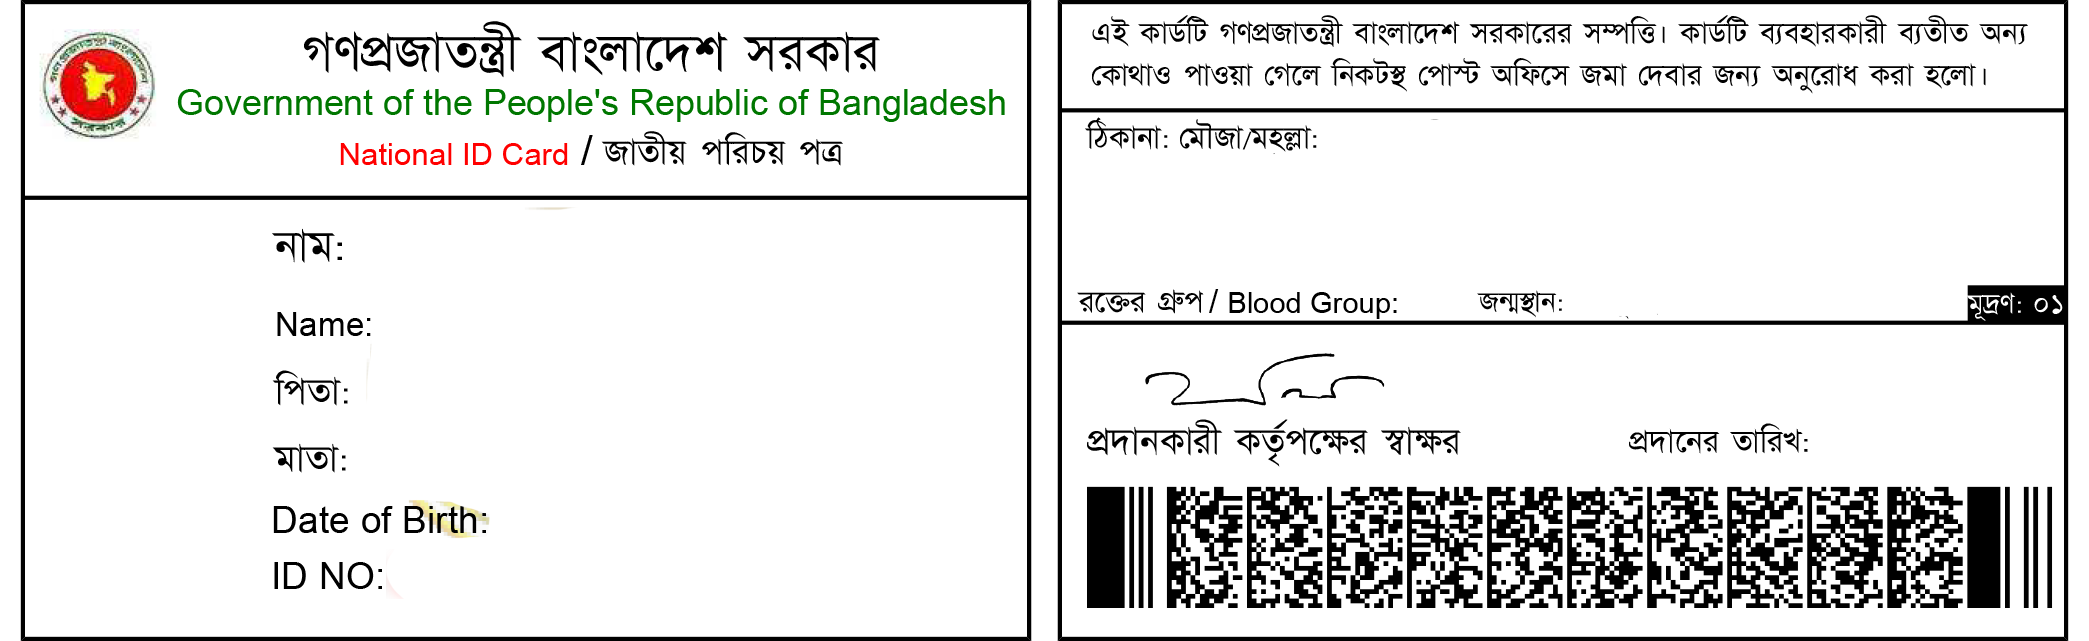
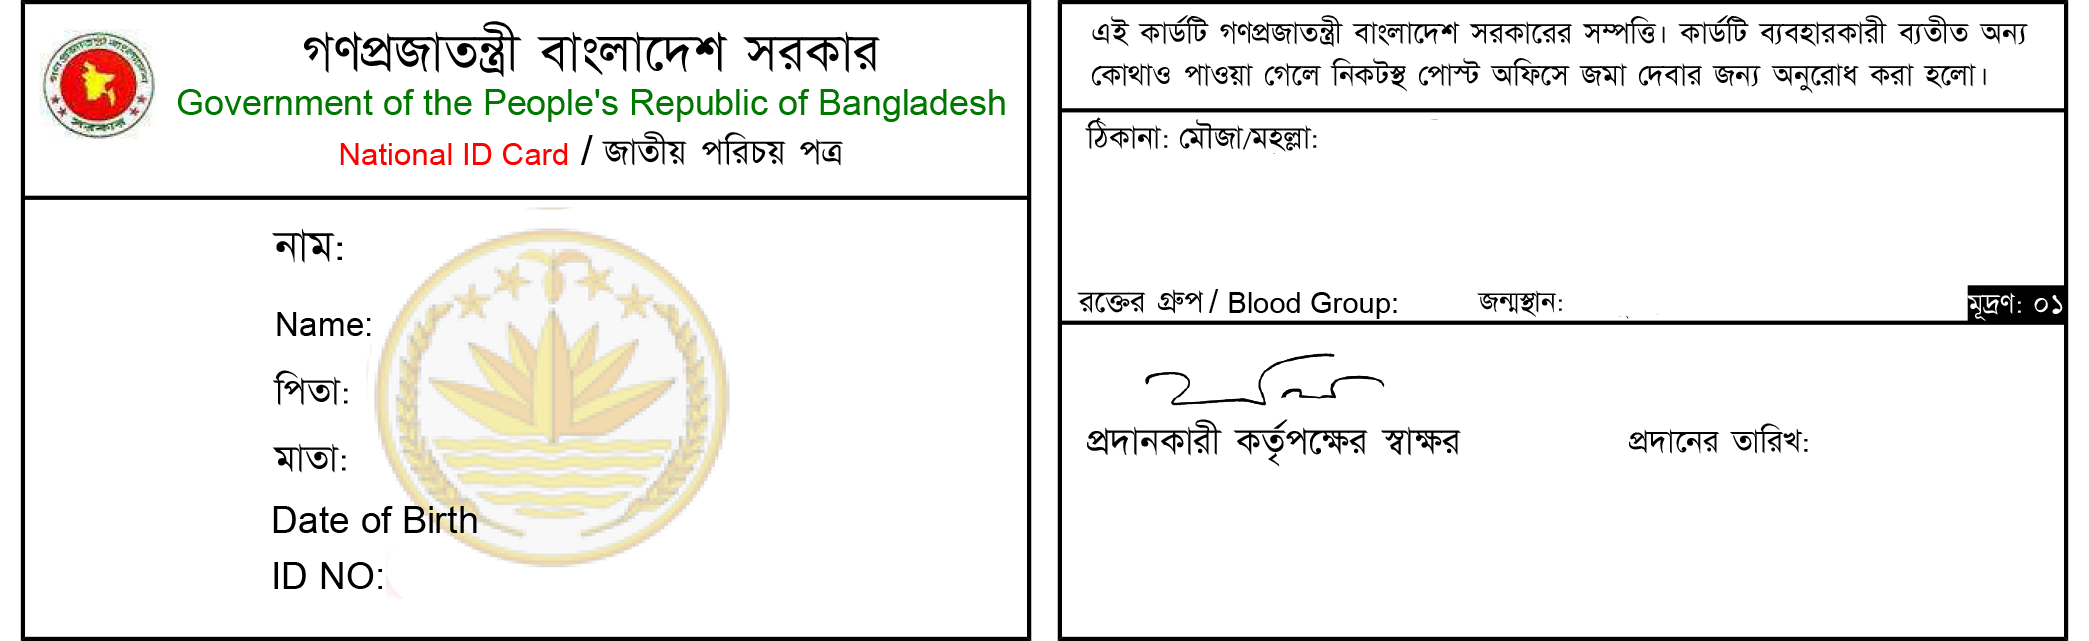
Front and Back part done with QR Code also

Changed region(s): [[0.4978, 0.7488, 0.9957, 0.9672], [0.1556, 0.3432, 0.3734, 0.9048]]

diff --git a/app/Http/Controllers/GDController.php b/app/Http/Controllers/GDController.php
@@ -1,45 +1,142 @@
 <?php
-
 namespace App\Http\Controllers;
 
-use Illuminate\Http\Request;
+use Str;
+use TCPDF2DBarcode;
 
 class GDController extends Controller
 {
-   public function index()
-   {
+    public function index()
+    {
         header('Content-Type: image/png');
 
-        $sut_f = public_path('fonts/SutonnyMJ-Bold.ttf');
+        //nid fonts
+        $sut_f       = public_path('fonts/SutonnyMJ-Bold.ttf');
         $sut_regular = public_path('fonts/SutonnyMJ-Regular.ttf');
-        $solaiman_f = public_path('fonts/SolaimanLipi.ttf');
-        $arial = public_path('fonts/ARIAL.TTF');
-        $arialB = public_path('fonts/ARIALBD.TTF');
+        $solaiman_f  = public_path('fonts/SolaimanLipi.ttf');
+        $arial       = public_path('fonts/ARIAL.TTF');
+        $arialB      = public_path('fonts/ARIALBD.TTF');
+
+        //nid frame
         $image = imagecreatefrompng(public_path('images/nid_frame.png'));
-        $name_bn = '‡gvt Bgivb †nv‡mb';
-        $name_en = "MD EMRAN HOSSAIN";
-        $f_name = '‡gvt †njvj †nv‡mb';
-        $m_name = '‡gvQvt gwiqg †bQv';
-        $dob = '25 Dec 1998';
-        $id_no = '5554459734';
 
-        $red_col = imagecolorallocate($image, 255,0,0);
+        //nid photo
+        $photo_path = public_path('images/my_photo.png');
+        $photo      = imagecreatefrompng($photo_path);
+        $dst_x      = 35;
+        $dst_y      = 210;
+        $dst_w      = 212;
+        $dst_h      = 242;
+        $src_w      = imagesx($photo);
+        $src_h      = imagesy($photo);
+        imagecopyresampled(
+            $image,
+            $photo,
+            $dst_x, $dst_y,
+            0, 0,
+            $dst_w, $dst_h,
+            $src_w, $src_h
+        );
 
+        //nid signature
+        $singnature_path = public_path('images/my_sing.png');
+        $signature       = imagecreatefrompng($singnature_path);
+        $x               = 70;
+        $y               = 480;
+        $w               = 150;
+        $h               = 25;
+
+        $sig_w = imagesx($signature);
+        $sig_h = imagesy($signature);
+
+        imagecopyresampled(
+            $image,
+            $signature,
+            $x, $y,
+            0, 0,
+            $w, $h,
+            $sig_w, $sig_h,
+        );
+
+        //nid info
+        $name_bn    = '‡gvt Bgivb †nv‡mb';
+        $name_en    = "MD EMRAN HOSSAIN";
+        $f_name     = '‡gvt †njvj †nv‡mb';
+        $m_name     = '‡gvQvt gwiqg †bQv';
+        $dob        = '25 Dec 1998';
+        $id_no      = '5554459734';
+        $address    = 'cybNiw`Nx, WvKNi: wZjKcyi - 5942, Av‡°jcyi,';
+        $dist       = 'RqcyinvU';
+        $blood_g    = 'B+';
+        $issue_date = now()->format("d/m/Y");
+        $uuid = \Illuminate\Support\Str::random(98);
+
+        //QR/Barcode
+        $data    = "<pin>{$id_no}</pin><name>{$name_en}</name><DOB>{$dob}</DOB><FP></FP><F>Right INdex</F><TYPE>A</TYPE><V>2.0</V><ds>{$uuid}</ds>";
+        $barcode = $this->generateBarcode($data);
+
+        $qr = imagecreatefromstring($barcode);
+
+        $qr_x = 1080;
+        $qr_y = 500;
+        $qr_w = 975;
+        $qr_h = 122;
+
+        imagecopyresampled(
+         $image,
+         $qr,
+         $qr_x, $qr_y,
+         0,0,
+         $qr_w, $qr_h,
+         imagesx($qr), imagesy($qr)
+        );
+
+
+        //text color
+        $red_col    = imagecolorallocate($image, 255, 0, 0);
         $text_color = imagecolorallocate($image, 0, 0, 0);
-        imagettftext($image, 38,0, 390, 260, $text_color, $sut_f, $name_bn);
 
+        //bangla name
+        imagettftext($image, 38, 0, 390, 260, $text_color, $sut_f, $name_bn);
 
-        imagettftext($image, 30, 0, 390, 341, $text_color, $arial, $name_en );
+        //English name
+        imagettftext($image, 30, 0, 390, 341, $text_color, $arial, $name_en);
 
+        //Fathers name
         imagettftext($image, 33, 0, 390, 405, $text_color, $sut_regular, $f_name);
 
+        //Mothers name
         imagettftext($image, 32, 0, 390, 472, $text_color, $sut_regular, $m_name);
 
+        //DOB
         imagettftext($image, 25, 0, 500, 534, $red_col, $arial, $dob);
 
+        //ID no
         imagettftext($image, 26, 0, 397, 591, $red_col, $arialB, $id_no);
 
+        //Address
+        imagettftext($image, 28, 0, 1330, 149, $text_color, $sut_regular, $address);
+
+        //dist
+        imagettftext($image, 28, 0, 1180, 184, $text_color, $sut_regular, $dist);
+
+        //dist
+        imagettftext($image, 28, 0, 1410, 315, $text_color, $arial, $blood_g);
+
+        //Dob Place
+        imagettftext($image, 25, 0, 1570, 313, $text_color, $sut_regular, $dist);
+
+        //Issue Date
+        imagettftext($image, 28, 0, 1820, 452, $text_color, $sut_regular, $issue_date);
+
+        //create image
         imagejpeg($image);
         imagedestroy($image);
-   } 
+    }
+
+    public function generateBarcode(string $data)
+    {
+        $barcode = new TCPDF2DBarcode($data, 'PDF417');
+        return $barcode->getBarcodePngData(10, 4);
+    }
 }
